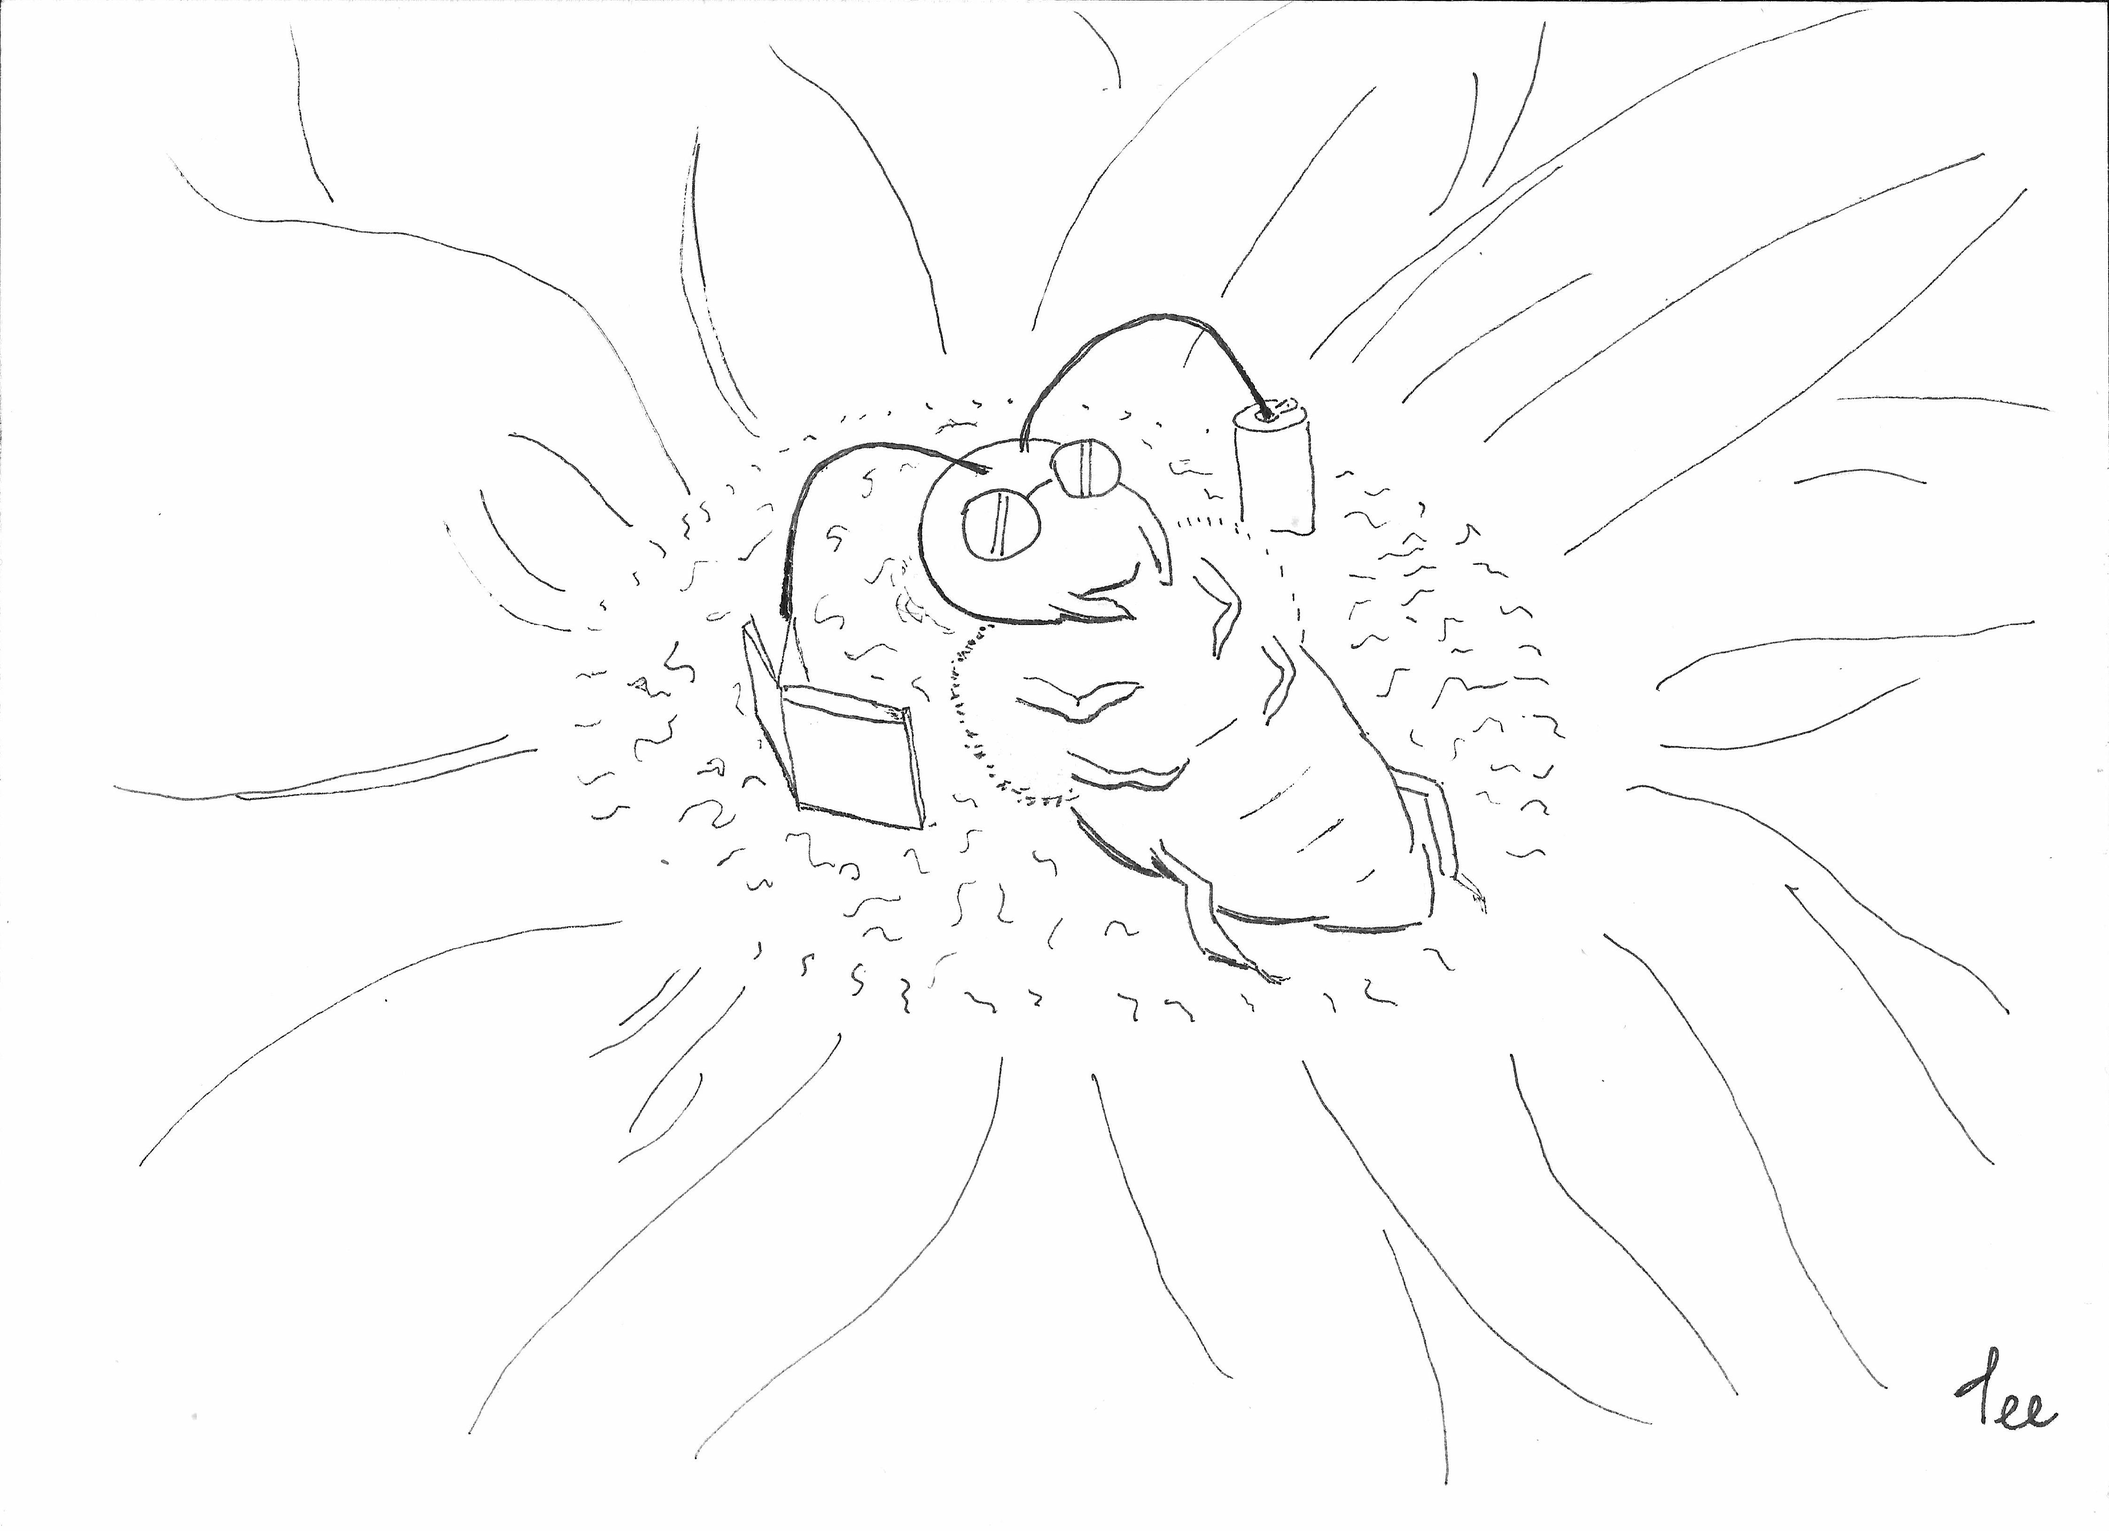
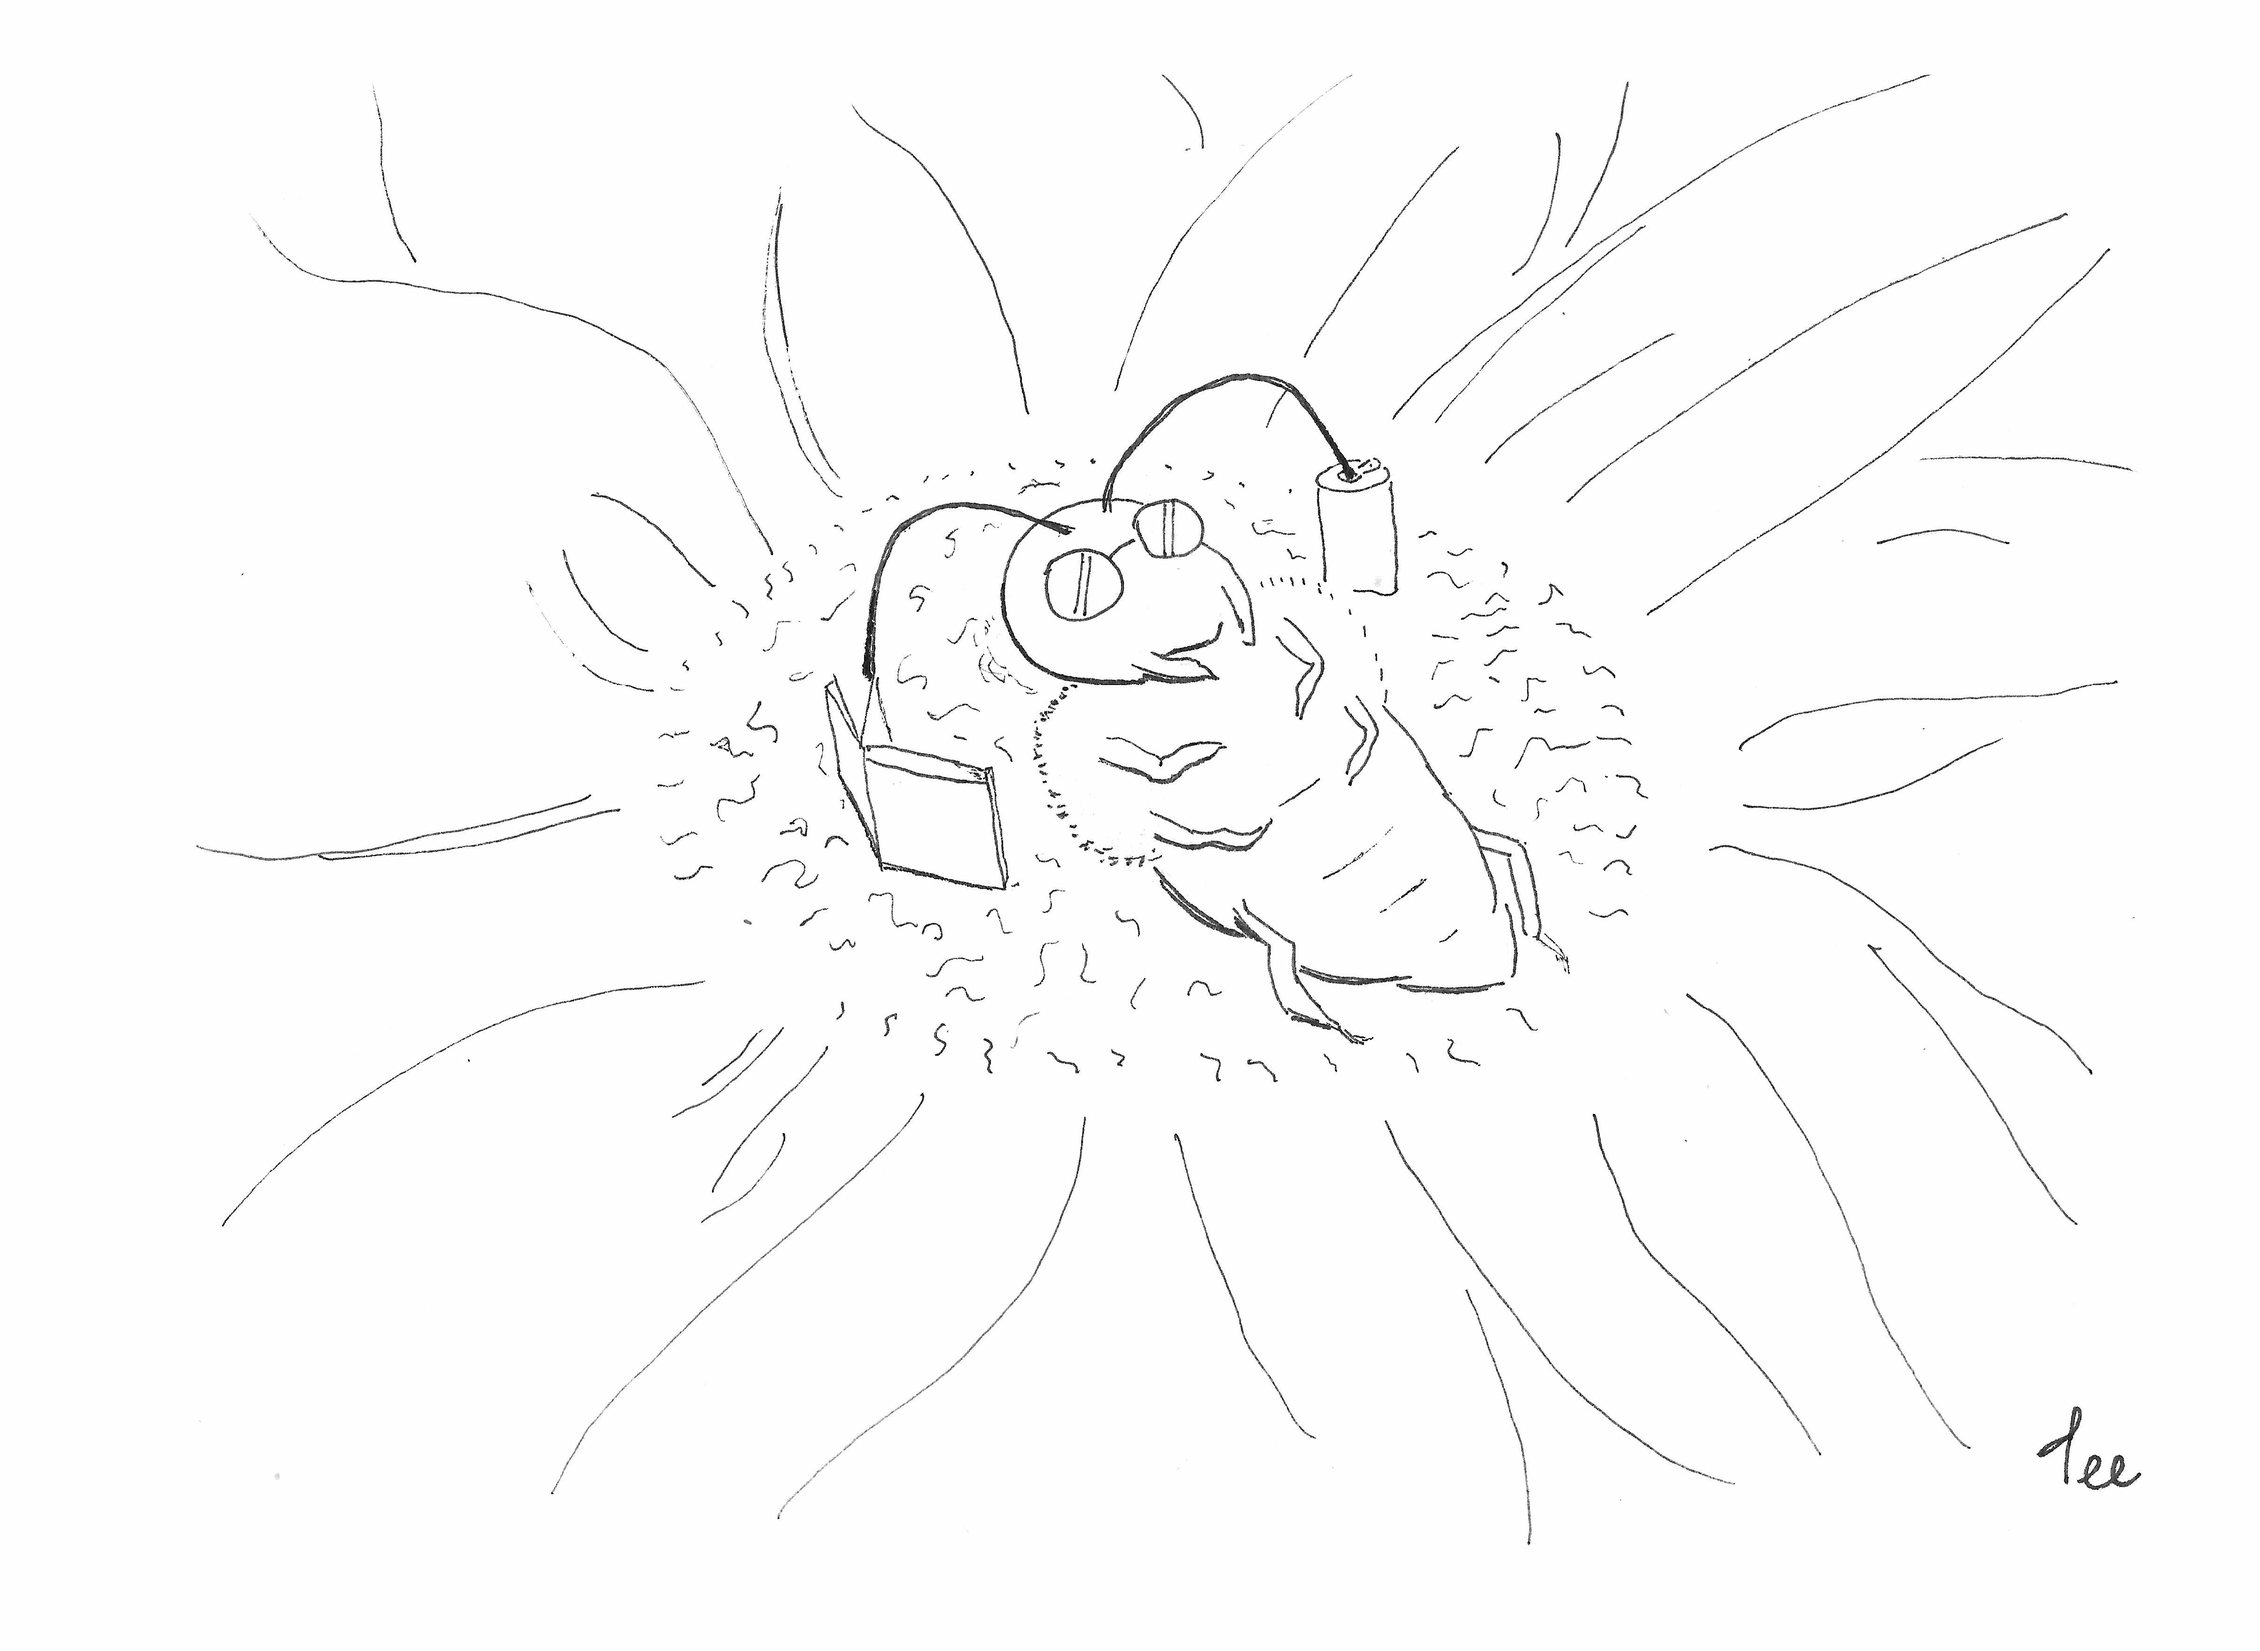
tweak hero and [cartoons] page; update bee.jpeg image

diff --git a/src/routes/cartoons/[cartoons]/+page.svelte b/src/routes/cartoons/[cartoons]/+page.svelte
@@ -5,12 +5,12 @@
 	import Seo from '$lib/Seo.svelte';
 	let image = $derived(data.image);
 	let index = $derived(data.index);
-	import { replaceJpeg } from '$lib/utils/utils';
+	import { replaceJpeg, getRandomIntInclusive } from '$lib/utils/utils';
 	import cartoons from '$lib/data/cartoons.json';
+	import Icon from '$lib/components/Icon.svelte';
 
 	import { goto } from '$app/navigation';
-	import {  format, parseISO } from 'date-fns';
-
+	import { format, parseISO } from 'date-fns';
 	function onKeyDown(e) {
 		let nextCartoon;
 
@@ -53,19 +53,13 @@
 	<div>
 		<BackTo href={`/cartoons`} text={`Back to all cartoons`} classes="" />
 	</div>
-	<div class="flex flex-row place-content-between gap-5 pb-5">
-		{#if index !== cartoons.length - 1}
-			<button
-				aria-label="button-forward"
-				class="button mx-auto h-full w-20 self-center"
-				type="submit"
-				onclick={() => goto(navigateCartoons('forward'))}>{'<'}</button
-			>
-		{:else}
-			<button aria-label="button-forward-spacing" class="button invisible mx-auto h-full w-20"
-			></button>
-		{/if}
-		<div class="mx-auto flex max-w-5xl flex-col gap-10 py-8">
+	<div class="flex flex-row place-content-between gap-5 justify-self-center">
+		<button
+			aria-label="button-forward"
+			class={`button m-2 h-20 w-20 items-center justify-center self-center ${index !== cartoons.length - 1 ? 'hidden sm:flex' : 'hidden'}`}
+			onclick={() => goto(navigateCartoons('forward'))}><Icon name="arrow-left" /></button
+		>
+		<div class="mx-auto flex w-fit max-w-5xl flex-col gap-10 py-12 md:py-6">
 			<div class="flex flex-col">
 				<!-- {image.Filename} -->
 				<img
@@ -80,7 +74,7 @@
 					>{/if}
 			</div>
 
-			<div class="flex flex-col">
+			<div class="flex flex-col px-5">
 				<p><strong>Date:</strong> {format(parseISO(image.Date), 'LLLL, y')}</p>
 				<p class="">
 					<strong>Tags:</strong>
@@ -90,16 +84,42 @@
 			</div>
 		</div>
 
-		{#if index !== 0}
+		<button
+			aria-label="button-forward"
+			class={`button m-2 h-20 w-20  items-center justify-center self-center  ${index !== 0 ? 'hidden sm:flex' : 'hidden'}`}
+			onclick={() => goto(navigateCartoons('forward'))}><Icon name="arrow-right" /></button
+		>
+	</div>
+	<div class="flex flex-col gap-5 place-self-end self-center items-center">
+		<div class="flex flex-row sm:hidden">
 			<button
-				aria-label="button-back"
-				class="button mx-auto h-full w-20 self-center"
-				type="submit"
-				onclick={() => goto(navigateCartoons('back'))}>{'>'}</button
+				aria-label="button-forward"
+				class={`button  h-20 w-20 items-center justify-center self-center  ${index !== 0 ? 'flex' : 'hidden'} sm:hidden`}
+				onclick={() => goto(navigateCartoons('back'))}><Icon name="arrow-left" /></button
 			>
-		{:else}
-			<button aria-label="button-back-spacing" class="button invisible mx-auto h-full w-20"
-			></button>
-		{/if}
+			<button
+				aria-label="button-forward"
+				class={`button  h-20 w-20 items-center justify-center self-center  ${index !== cartoons.length - 1 ? 'flex' : 'hidden'} sm:hidden`}
+				onclick={() => goto(navigateCartoons('forward'))}><Icon name="arrow-right" /></button
+			>
+		</div>
+
+		<div>
+			<button
+				class="button"
+				onclick={() => goto(`/cartoons/${replaceJpeg(cartoons[cartoons.length - 1].Filename)}`)}
+				>Latest</button
+			>
+			<button class="button" onclick={() => goto(`/cartoons/${replaceJpeg(cartoons[0].Filename)}`)}
+				>Oldest</button
+			>
+			<button
+				class="button"
+				onclick={() =>
+					goto(
+						`/cartoons/${replaceJpeg(cartoons[getRandomIntInclusive(0, cartoons.length)].Filename)}`
+					)}>Random</button
+			>
+		</div>
 	</div>
 </div>

diff --git a/src/lib/Sections/Hero.svelte b/src/lib/Sections/Hero.svelte
@@ -34,64 +34,40 @@
 
 <!-- Animation of lee logo -->
 <!-- after pause, display links with drawn icons -->
-<div
-	class="grid grid-cols-1 place-items-center content-start gap-4 lg:w-full lg:grid-cols-3 lg:grid-rows-3"
->
-	<!-- Top -->
-	<div class="hidden lg:order-1 lg:block"></div>
-	<div class="order-2">
+
+
+<div class="grid grid-rows-4 place-content-between min-h-fit place-items-center justify-center">
+	<div class="lg:col-span-1 lg:col-start-2 ">
 		<a href="/apps">
 			<Brick>
-				<Drawing alt="Apps icon" name="apps" classNames="text-left w-1/2 lg:w-1/4 lg:self-center" />
+				<Drawing alt="Apps icon" name="apps" classNames="text-left w-1/3 h-1/3 lg:w-1/4 lg:self-center" />
 				<span class="text-left text-5xl">Apps</span>
 			</Brick></a
 		>
 	</div>
-	<div class="hidden lg:order-3 lg:block"></div>
-
-	<!-- Middle -->
-	<div class="order-4">
+	<div class="lg:col-span-1 lg:row-start-2 ">
 		<a href="/cartoons">
 			<Brick>
-				<Drawing alt="Cartoons icon" name="cartoons" classNames="w-1/2 lg:w-1/4 lg:self-center" />
+				<Drawing alt="Cartoons icon" name="cartoons" classNames="w-1/3 h-1/3 lg:w-1/4 lg:self-center" />
 				<span class="text-left text-5xl">Cartoons</span>
 			</Brick></a
 		>
 	</div>
-
-	<div class="hidden h-75 w-75 p-6 text-center text-white sm:flex xl:order-5">
-		{#if visible}
-			<!-- <video autoplay muted playsinline onended={() => (visible = false)} class="">
-					<source src="/img/leeAnimation.webm" type="video/webm" />
-					<source src="/img/leeAnimation.mp4" type="video/mp4" />
-
-					Your browser does not support the video tag.
-				</video> -->
-			<Logo />
-		{:else}
-			<!-- <div class="hidden sm:block"> -->
-			<Logo />
-			<!-- </div> -->
-		{/if}
-	</div>
-	<div class="order-6">
+	<div class="hidden lg:grid lg:col-span-1 lg:row-start-2 h-75 w-75 p-6 text-center text-white xl:flex xl:order-5"><Logo /></div>
+	<div class="lg:col-span-1 lg:col-start-3 lg:row-start-2 ">
 		<a href="/posts">
 			<Brick>
-				<Drawing alt="Posts icon" name="posts" classNames="w-1/2 lg:w-1/4 lg:self-center" />
+				<Drawing alt="Posts icon" name="posts" classNames="w-1/3 h-1/3 lg:w-1/4 lg:self-center" />
 				<span class="text-left text-5xl">Posts</span>
 			</Brick></a
 		>
 	</div>
-
-	<!-- Bottom -->
-	<div class="hidden lg:order-7 lg:block"></div>
-	<div class="order-8">
+	<div class="lg:col-span-1 lg:col-start-2 row-start-3 ">
 		<a href="/about">
 			<Brick>
-				<Drawing alt="About icon" name="about" classNames="w-1/2 lg:w-1/4 lg:self-center" />
+				<Drawing alt="About icon" name="about" classNames="w-1/3 h-1/3 lg:w-1/4 lg:self-center" />
 				<span class="text-left text-5xl">About</span>
 			</Brick></a
 		>
 	</div>
-	<div class="hidden lg:order-9 lg:block"></div>
 </div>

diff --git a/src/lib/Seo.svelte b/src/lib/Seo.svelte
@@ -1,10 +1,9 @@
 <script>
 	export let title = 'Mike Lee';
 	export let description =
-		'A developer living in the Washington, DC area specializing in the creation of web applications,graphics, and other data-driven projects using R, Shiny, React, Svelte, and D3. I teach workshops on R programming and data visualization.';
-	export let keywords =
-		'web development, data science, data visualization, R, Shiny, React, Svelte';
-	export let image = 'https://www.mikelee.co/img/michael.png';
+		"A developer and cartoonist living in Milwaukee, Wisconsin specializing in the creation of web applications, graphics, and other data-driven projects I've taught classrooms and coding workshops, consulted with researchers, sports agents and students, and developed data products for government education agencies.";
+	export let keywords = 'web development, data science, data visualization, R, Python, Svelte';
+	export let image = 'https://www.mikelee.co/images/icons/logo.png';
 </script>
 
 <svelte:head>

diff --git a/src/routes/about/+page.svelte b/src/routes/about/+page.svelte
@@ -10,6 +10,7 @@
 <ContainerLayout>
 	<div class="grid gap-5">
 		<h1>About Michael Lee</h1>
+
 		<p>
 			I’m a full-stack developer with an interest in creating cross-platform applications. Crabapple
 			Games is a self-developed web application and mobile app. Check out
@@ -20,9 +21,8 @@
 			working in ink and watercolor. Check out some of <a href="/cartoons">my cartoons</a>.
 		</p>
 		<p>
-			I’m a research and data professional with an interest in creating products and tools that
-			supplement the acquisition of knowledge. My toolkit includes R, SQL, D3, and LaTeX, and my
-			background in special education assists in making complex concepts accessible. Check out my <a
+			I've taught classrooms and coding workshops, consulted with researchers, sports agents and
+			students, and developed data products for government education agencies. Check out my <a
 				href="/resume">resume</a
 			>
 			and scroll through my <a href="/projects">projects</a> and

diff --git a/src/routes/cartoons/+page.svelte b/src/routes/cartoons/+page.svelte
@@ -12,17 +12,11 @@
 	import BackTo from '$lib/BackTo.svelte';
 	let selectedTag = $state('Animals');
 	let images = data;
-	import { replaceJpeg } from '$lib/utils/utils';
+	import { replaceJpeg, getRandomIntInclusive  } from '$lib/utils/utils';
 	const tags = Array.from(new Set(data.flatMap((img) => img.tags))).sort();
 
 	let filtered = $derived(images.filter((img) => img.tags.includes(selectedTag)));
 	// let image = $derived(data.image);
-
-	function getRandomIntInclusive(min, max) {
-		min = Math.ceil(min);
-		max = Math.floor(max);
-		return Math.floor(Math.random() * (max - min + 1)) + min;
-	}
 
 	const randomFloat = $state(getRandomIntInclusive(0, data.length));
 	let randomImage = $derived(data[randomFloat]);

diff --git a/src/lib/components/Brick.svelte b/src/lib/components/Brick.svelte
@@ -4,7 +4,7 @@
 </script>
 
 <div
-	class="flex flex-row p-5 justify-start items-center items-center justify-start gap-2 transition-transform duration-500 hover:scale-110 lg:flex-col lg:flex-col-reverse lg:text-center"
+	class="flex flex-row p-5 justify-start items-center  gap-2 transition-transform duration-500 hover:scale-110 lg:flex-col lg:flex-col-reverse lg:text-center"
 >
 	{@render children?.()}
 </div>

diff --git a/src/lib/utils/utils.js b/src/lib/utils/utils.js
@@ -18,3 +18,10 @@ export function findCartoon(name) {
 	});
 	return { image };
 }
+
+
+export function getRandomIntInclusive(min, max) {
+	min = Math.ceil(min);
+	max = Math.floor(max);
+	return Math.floor(Math.random() * (max - min + 1)) + min;
+}
